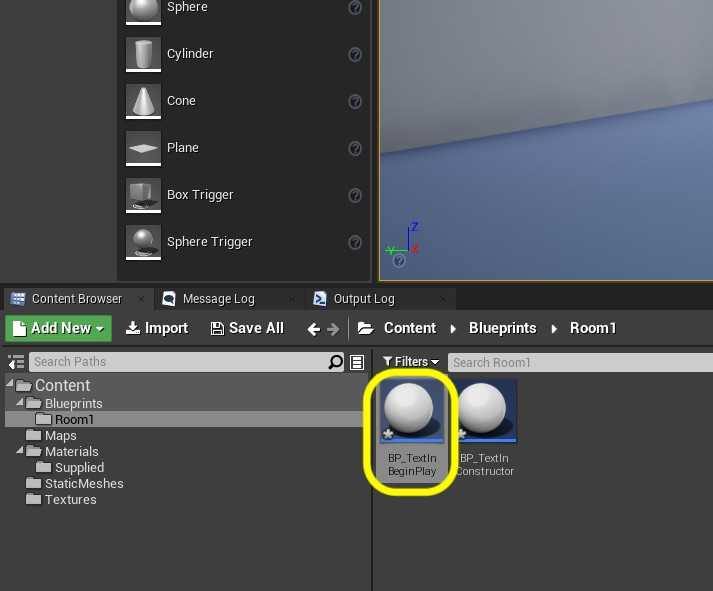
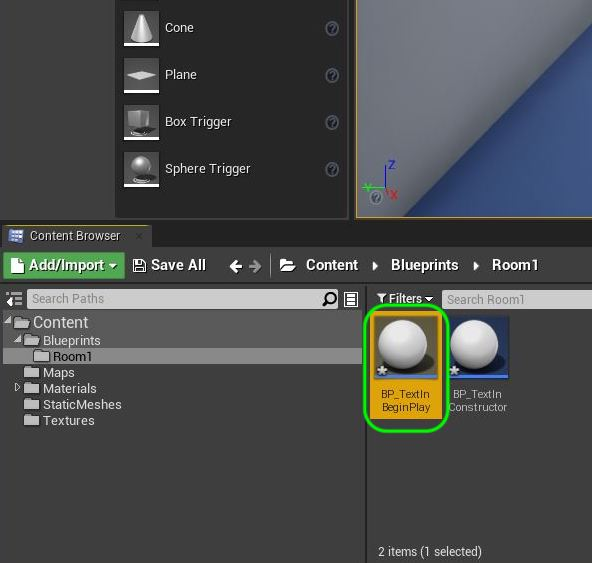
porting over old walk through

diff --git a/constructor-begin-ii/README.md b/constructor-begin-ii/README.md
@@ -23,7 +23,7 @@ Go to the **Blueprints | Room1** folder and right click on **BP_TextOnConstructo
 
 ##### `Step 2.`\|`FHIU`|:small_blue_diamond: :small_blue_diamond: 
 
-Rename the file to `BP_TextOnBeginPlay`.
+Rename the file to `BP_TextInBeginPlay`.
 
 ![rename blueprint to BP_TextOnBeginPlay](images/RenameBeginPlayRm1.jpg)
 
